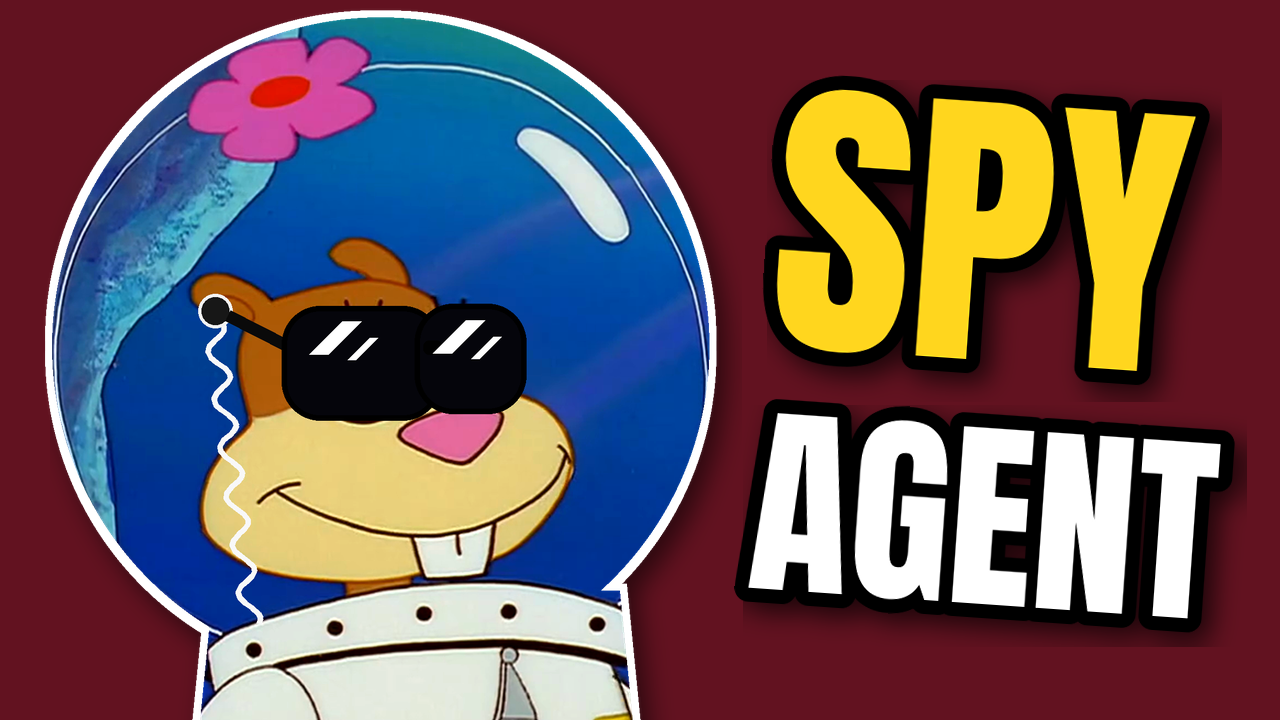
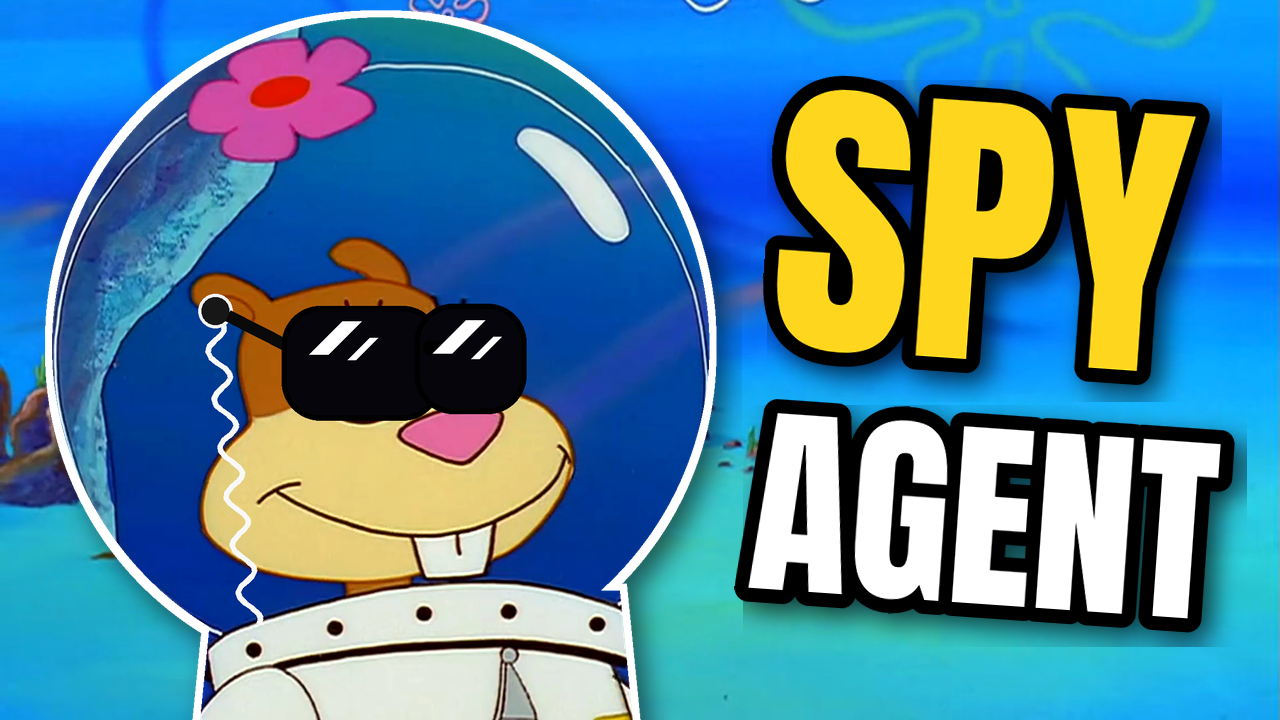
Spy thumbnail: full underwater background
Claude-Session: https://claude.ai/code/session_019dHvg1x6KTCWVLRYKwDemY

diff --git a/sandy_video/tools/thumb_spy_simple.py b/sandy_video/tools/thumb_spy_simple.py
@@ -4,7 +4,10 @@ F="fonts/"; W,H=1280,720
 def font(n,s): return ImageFont.truetype(F+n,s)
 
 # plain background
-canvas=Image.new("RGBA",(W,H),(98,18,32,255))  # one solid colour, no gradient
+sea=Image.open("work/frames/sea_plate.png").convert("RGB")
+sea=sea.crop((0,362,1916,1440)).resize((W,H),Image.LANCZOS)   # 16:9 slice keeping the rock arch at the bottom
+sea=ImageEnhance.Color(sea).enhance(1.25)
+canvas=sea.convert("RGBA")  # the whole background is the sea
 
 # Sandy with agent shades + earpiece
 s=Image.open("work/frames/sandy_smirk.png").convert("RGBA"); d=ImageDraw.Draw(s)
